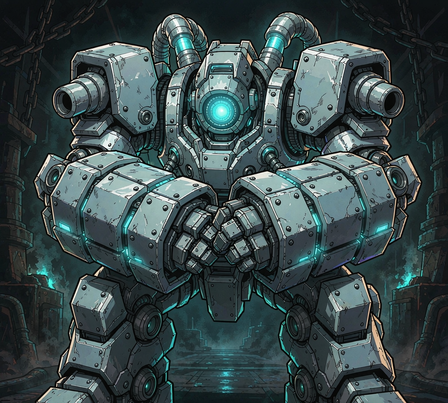
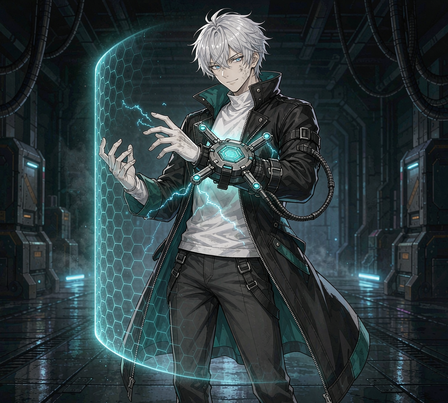
卡图换版：代达罗斯 8060 / 谟涅摩叙涅 8072 旧版 v1 → 新版 v12/v9
- assets/pics/8060.png: v1(复古塔盾机甲) → v12(ikemen 男工匠 + 四臂电磁护盾发生器 + 机库背景)
- assets/pics/8072.png: v1(白色机娘) → v9(少女 + 雾蓝紫长发 + 机械大厅背景，右裁 20%)
- R438 process.py: ADOPT 表 8060/8072 改指 v12/v9，新增 RIGHT_CROP 固化 8072 右裁
- R438 README.md: 出图记录两行改为 v1 → 返工至 v12/v9 采用

根因: R438 后续返工的新版一直留 raw 等点头，process.py 的 ADOPT 未同步更新，
改稿只改了 ART.md/记忆，导致游戏内仍是 v1 旧版。

diff --git a/art_src/2026-10-29_卡图批次R438/process.py b/art_src/2026-10-29_卡图批次R438/process.py
@@ -23,6 +23,7 @@ W, H = 448, 403
 RATIO = W / H
 WATERMARK_CUT = 0.11   # 底部按比例切掉
 NO_WM_CUT = set()      # 本批无水印需手工修补的图
+RIGHT_CROP = {"8072": 0.20}   # 去水印后、cover 前，先右裁比例（人物偏左，裁右让人回中）
 
 # 采用稿（被弃的版本不在这里，留在 raw/ 存档）
 ADOPT = {
@@ -32,8 +33,8 @@ ADOPT = {
     "8024": "8024_契约签订者_v1_候选.png",      # 兜帽掮客 + 空白长卷轴 + 费用光点
     "8015": "8015_机关工坊_v1_候选.png",        # 工坊场景，画面无人物
     "8050": "8050_旧式机兵_v1_候选.png",        # 锈甲掉板 + 暗红炉栅 + 膝部接线
-    "8060": "8060_代达罗斯_v1_候选.png",        # 双塔盾交叠 + 肩炮 + 青核（8074 量产型复用）
-    "8072": "8072_谟涅摩叙涅_v1_候选.png",      # 半张无面罩板 + 齿轮光环（8075 量产型复用）
+    "8060": "8060_代达罗斯_v12_机库背景.png",     # ikemen 男工匠 + 四臂电磁护盾发生器 + 机库背景（8074 量产型复用）
+    "8072": "8072_谟涅摩叙涅_v9_机械大厅.png",    # 少女 + 雾蓝紫长发 + 机械大厅背景（8075 量产型复用）
 }
 
 
@@ -63,6 +64,9 @@ def main() -> None:
         w, h = im.size
         cut = 0 if cid in NO_WM_CUT else int(round(h * WATERMARK_CUT))
         im = im.crop((0, 0, w, h - cut))    # ① 去水印
+        if cid in RIGHT_CROP:               # ①b 右裁（人物偏左回中）
+            w, h = im.size
+            im = im.crop((0, 0, w - int(round(w * RIGHT_CROP[cid])), h))
         im = cover(im, RATIO)               # ② cover
         im = im.resize((W, H), Image.LANCZOS)   # ③ 定稿尺寸
         dst = os.path.join(OUT, cid + ".png")
